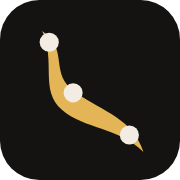
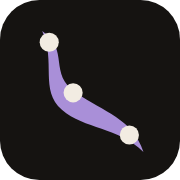
Couleurs : l'or reste à l'Anneau ; carnet en argent, Sillage en lavande
Claude-Session: https://claude.ai/code/session_01FWXfKqhUPy35kBri8GoBrv

Changed region(s): [[0.25, 0.2778, 0.7222, 0.75], [0.7222, 0.7778, 0.8056, 0.8611], [0.2222, 0.1667, 0.25, 0.1944]]

diff --git a/frontend/src/lib/Etape.svelte b/frontend/src/lib/Etape.svelte
@@ -146,7 +146,7 @@
   .phare { position: absolute; left: 0.35rem; top: 0.35rem; display: grid; place-items: center; width: 1.5rem; height: 1.5rem; border-radius: 50%; background: var(--app); color: var(--app-contraste); }
   .gestes { position: absolute; left: 0; right: 0; bottom: calc(0.75rem + env(safe-area-inset-bottom, 0px)); display: flex; flex-wrap: wrap; justify-content: center; gap: 0.4rem; padding: 0 0.75rem; }
   .gestes { z-index: 2; }
-  .gestes a { display: inline-flex; align-items: center; min-height: 2.75rem; padding: 0 0.85rem; border-radius: 999px; border: 1px solid #e3b556; background: rgb(0 0 0 / 0.6); color: #e3b556; font-size: 0.88rem; }
+  .gestes a { display: inline-flex; align-items: center; min-height: 2.75rem; padding: 0 0.85rem; border-radius: 999px; border: 1px solid #a98fd8; background: rgb(0 0 0 / 0.6); color: #a98fd8; font-size: 0.88rem; }
   .gestes button { min-height: 2.75rem; padding: 0 0.85rem; border-radius: 999px; border: 1px solid rgb(255 255 255 / 0.22); background: rgb(0 0 0 / 0.6); color: #fff; font-size: 0.88rem; }
-  .gestes button:hover:not(:disabled) { border-color: #e3b556; } .gestes button:disabled { color: #e3b556; border-color: #e3b556; }
+  .gestes button:hover:not(:disabled) { border-color: #a98fd8; } .gestes button:disabled { color: #a98fd8; border-color: #a98fd8; }
 </style>

diff --git a/frontend/src/pages/Invite.svelte b/frontend/src/pages/Invite.svelte
@@ -24,8 +24,8 @@
       .filter((c) => c.etapes.length)
   })
   const ageDit = (a) => (a == null ? '' : a === 0 ? 'avant 1 an' : a === 1 ? 'à 1 an' : `à ${a} ans`)
-  // 0.7 : la frise de plusieurs invités, une couleur par invité et le miel pour les moments ensemble
-  const COULEURS = ['#7fb7e6', '#e58fa8', '#8fd1a6', '#c3a6f0']
+  // 0.7 : la frise de plusieurs invités, une couleur par invité et celle de Sillage (lavande depuis la 0.10.1) pour les moments ensemble
+  const COULEURS = ['#7fb7e6', '#e58fa8', '#8fd1a6', '#e3b556']   // le 4e était lavande : trop proche de « ensemble »
   const couleur = (qui) => (qui === 'ensemble' || qui == null ? 'var(--app)' : COULEURS[qui % COULEURS.length])
   const prenom = (nom) => nom.split(' ')[0]
   const prenoms = (noms) => noms.length < 2 ? noms.join('') : noms.slice(0, -1).join(', ') + ' et ' + noms.at(-1)

diff --git a/frontend/src/app.css b/frontend/src/app.css
@@ -19,8 +19,8 @@
 :root {
   color-scheme: dark;
   --plume: "Tangerine", "Snell Roundhand", cursive;   /* les noms des évènements, à la plume comme sur l'Anneau */
-  --app: #e3b556;                         /* miel doré (sombre) */
-  --app-contraste: #2a1f08;               /* texte posé sur le miel */
+  --app: #a98fd8;                         /* lavande crépuscule (0.10.1 ; miel doré avant) */
+  --app-contraste: #1b1230;               /* texte posé sur la lavande */
 
   --radius: 0.75rem;
   --background: #151311;

diff --git a/tests/interface/test_interface.py b/tests/interface/test_interface.py
@@ -199,7 +199,8 @@ def test_connexion_et_reglages(page):
     page.goto(page.base + "/#/connexion")
     page.get_by_text("Répond, version 3.4.1. 2 personnes nommées.").wait_for()
     page.goto(page.base + "/#/reglages")
-    page.get_by_text("Sillage 0.10.0").wait_for()
+    from app import __version__
+    page.get_by_text(f"Sillage {__version__}").wait_for()
     sans_debordement(page)
 
 

diff --git a/app/__init__.py b/app/__init__.py
@@ -1,1 +1,1 @@
-__version__ = "0.10.0"
+__version__ = "0.10.1"

diff --git a/CHANGELOG.md b/CHANGELOG.md
@@ -1,5 +1,9 @@
 # Journal des versions
 
+
+## 0.10.1 — 14 novembre 2026
+- **Sillage passe en lavande crépuscule** (`#a98fd8`, le miel doré avant), icône comprise. L'or est gardé pour l'Anneau : carnet, Sillage et l'Anneau avaient trois ors voisins. Dans la frise de plusieurs invités, le quatrième invité prend l'ancien miel (sa lavande était trop proche des moments ensemble, qui suivent la couleur de Sillage).
+
 ## 0.10.0 — 13/11/2026
 
 - **Noms d'étapes plus propres** (vus sur ta photothèque) : l'année en tête d'un album part (« 2007 - Soirée class » → « Soirée class »), comme pour les dossiers. Un lot de numérisation (« 1998 Numérisation … », « Scans … ») n'est plus pris pour un nom : ses scans datés au mois se réunissent par année.
